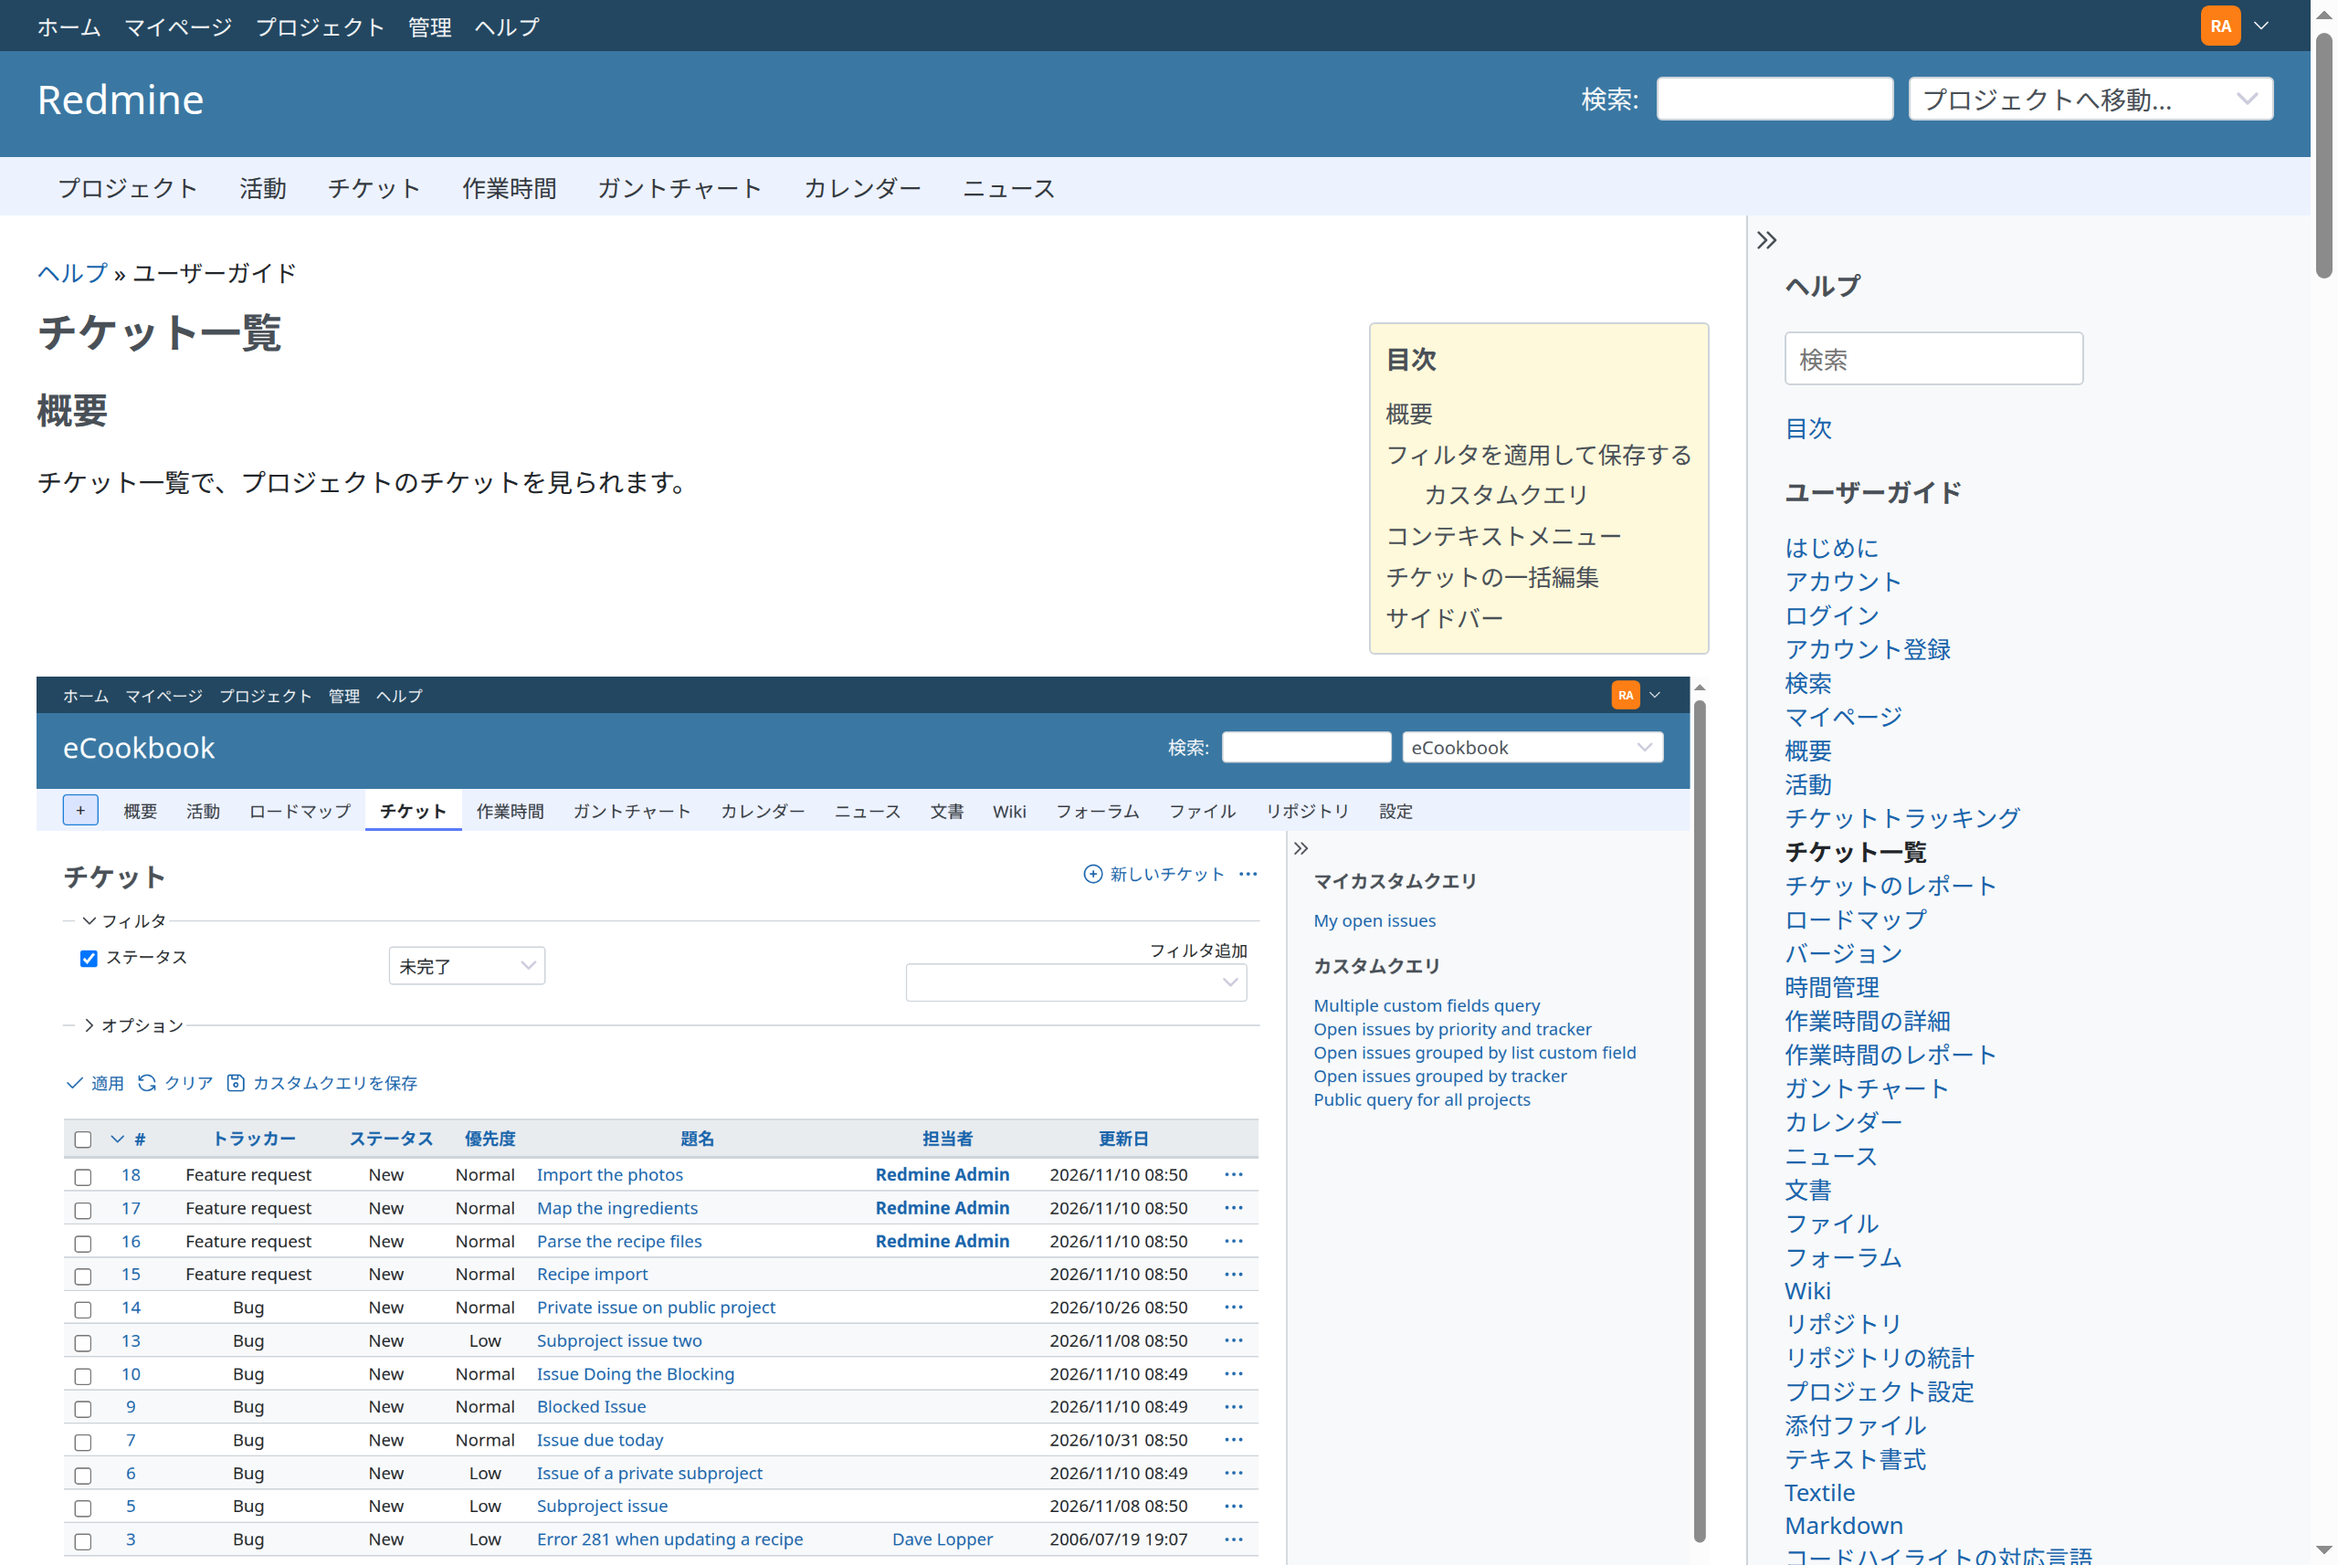
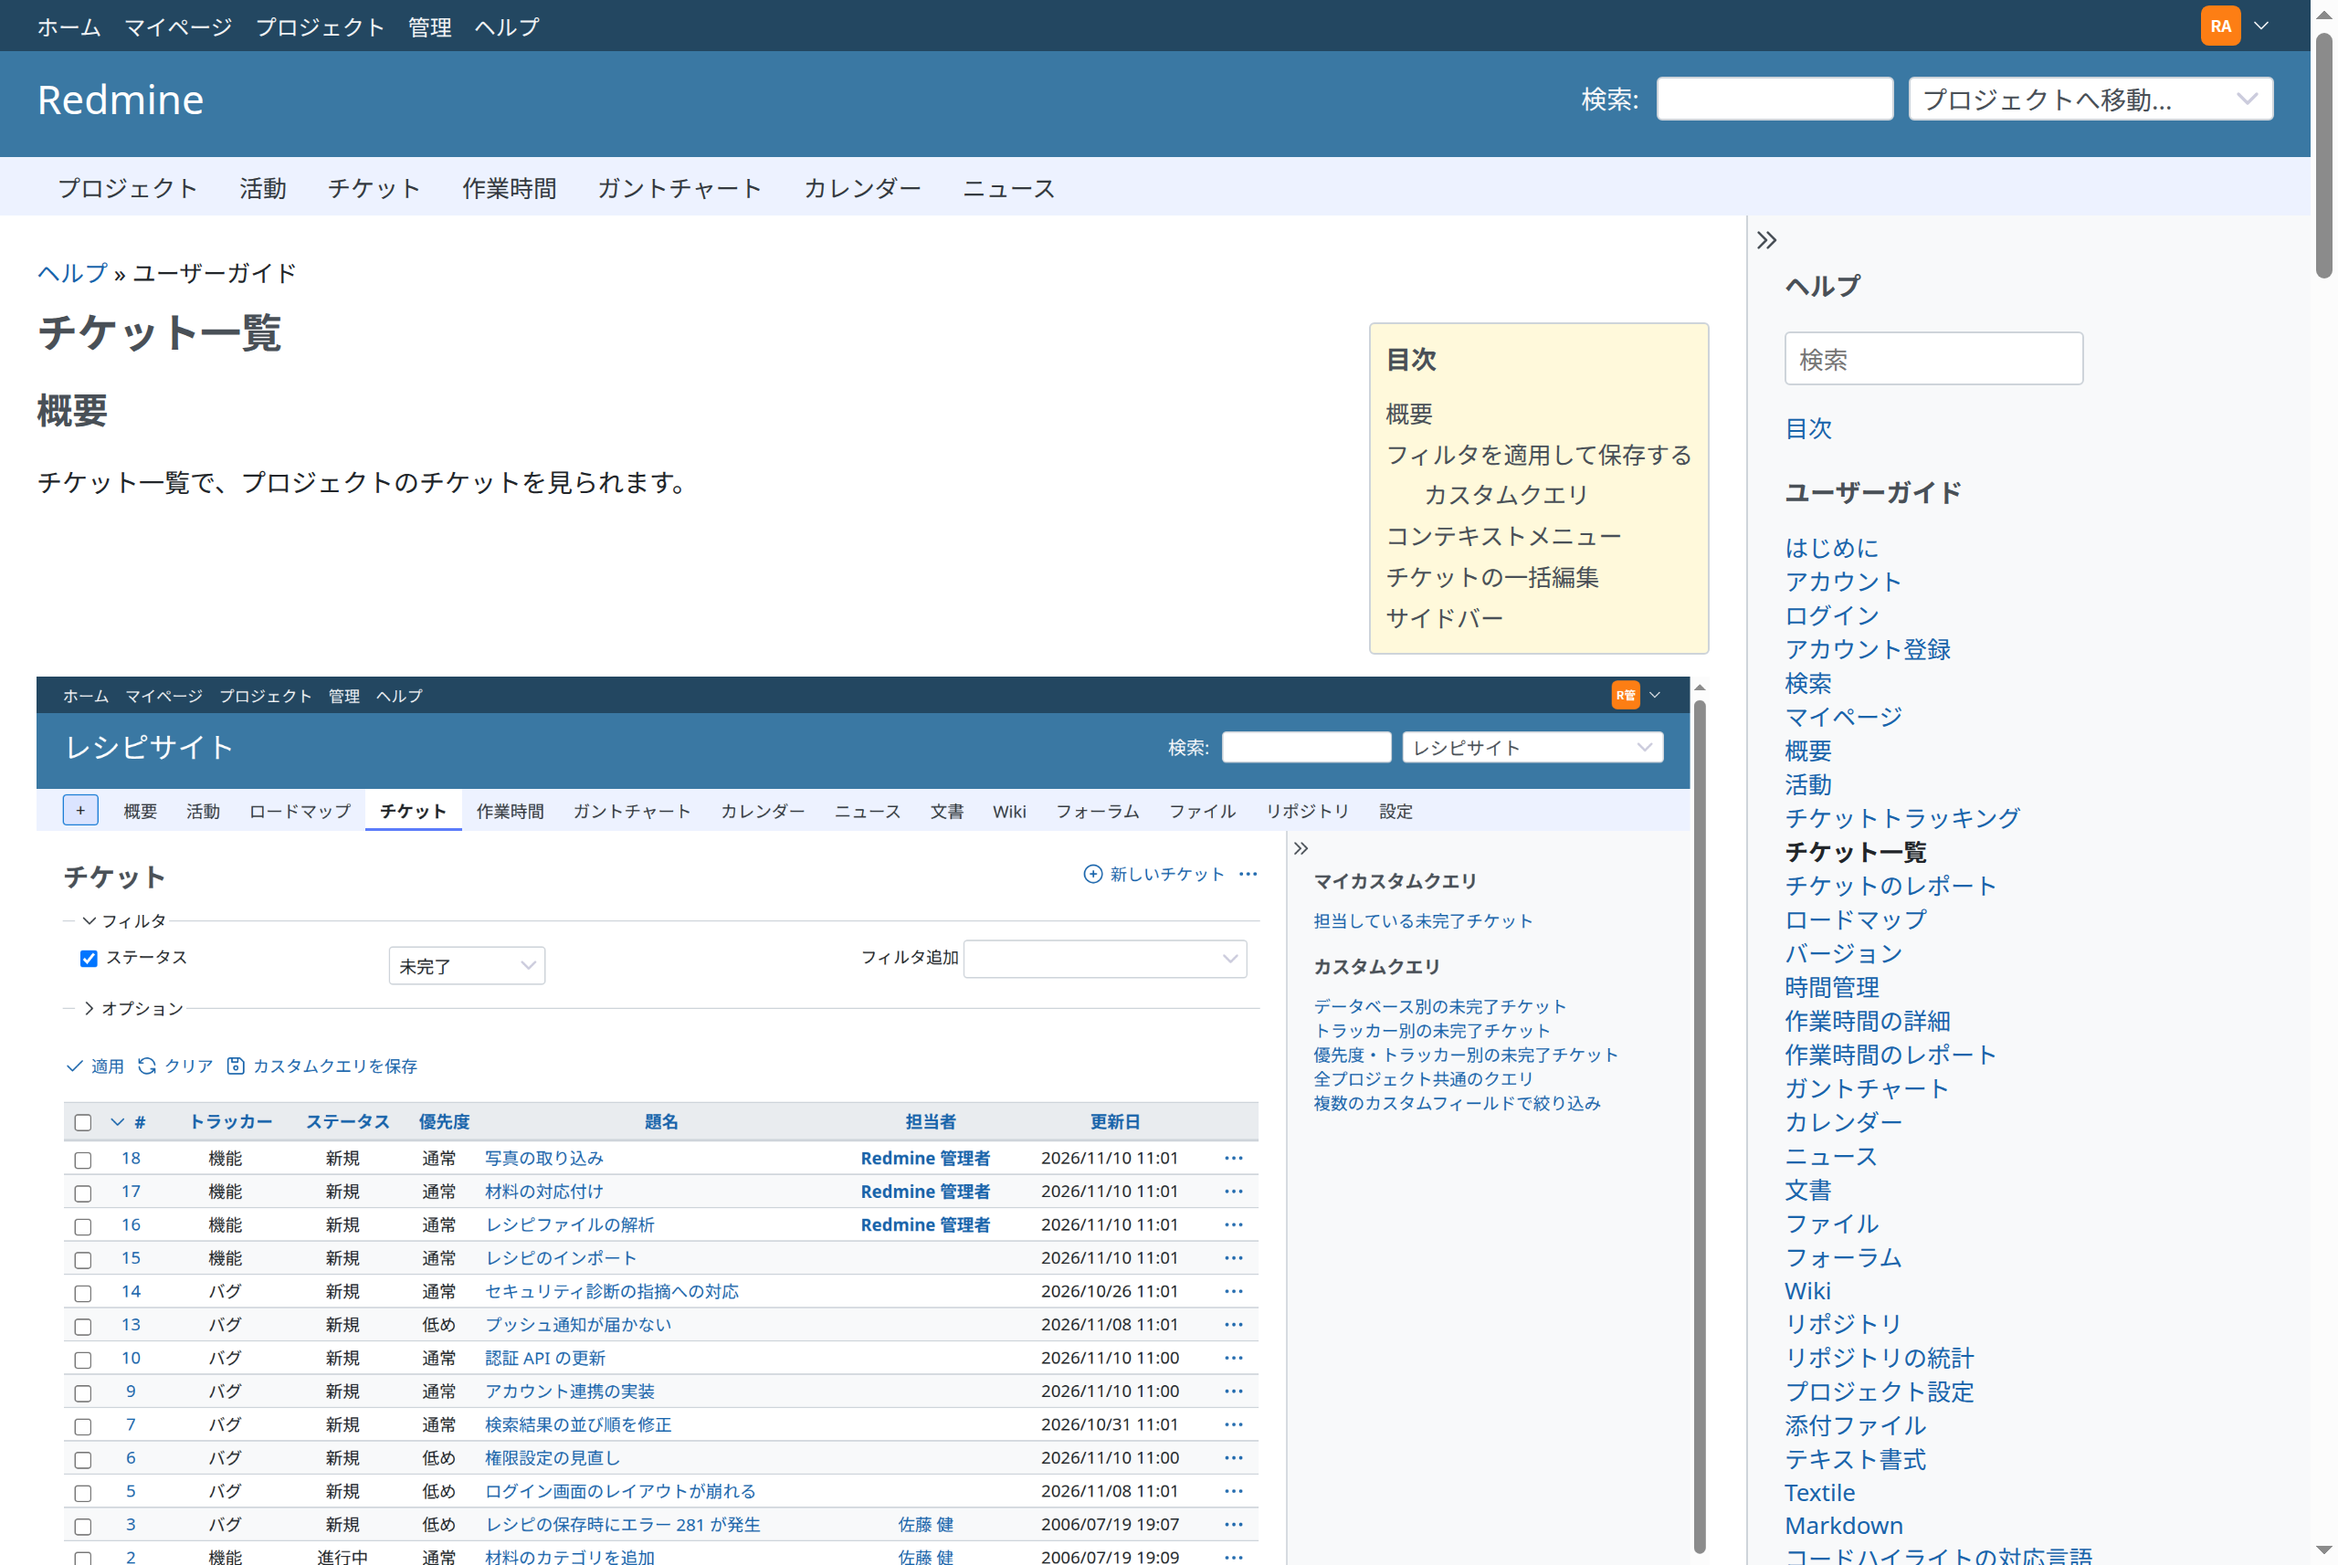
Take the screenshots of the side panel
bin/screenshots now also shoots the side panel next to the new issue form
and next to Administration › Settings › Authentication, in English and
Japanese, and takes the help page again.

diff --git a/test/screenshots/screens.rb b/test/screenshots/screens.rb
@@ -2,14 +2,26 @@
 
 require_relative 'screenshot_case'
 
-# The help screen of docs/README.md: the help for the issue list, opened by
-# the header's Help link, with the guide of redmine-guide
-# (REDMINE_HELP_GUIDE_PATH, set by bin/screenshots).
+# The screens of docs/README.md, with the guide of redmine-guide
+# (REDMINE_HELP_GUIDE_PATH, set by bin/screenshots): the side panel next to
+# the new issue form and next to a tab of Administration › Settings, and the
+# help page of the issue list.
 class RedmineHelpScreenshotsTest < ScreenshotCase
   def test_screens
     each_language do |language|
+      visit '/projects/ecookbook/issues/new'
+      open_panel
+      shoot_window 'help-panel', language
+      close_panel
+
+      visit '/settings?tab=authentication'
+      open_panel
+      shoot_window 'help-panel-settings', language
+      close_panel
+
       visit '/projects/ecookbook/issues'
-      # The link opens a new tab; the screenshot follows it in this one.
+      # The help page, as the Help link opens it without JavaScript and the
+      # panel's full view link opens it in a new window.
       visit find('#top-menu a.help')[:href]
       assert_selector 'div.wiki.wiki-page ul.toc'
       load_images
@@ -18,6 +30,26 @@ class RedmineHelpScreenshotsTest < ScreenshotCase
   end
 
   private
+
+  # Opens the side panel with the Help link and waits for its images. The
+  # panel's scroll position (the mapped section) is kept.
+  def open_panel
+    # The script has set the link up as the panel's button.
+    find('#top-menu a.help[aria-controls="help-panel"]').click
+    assert_selector '#help-panel .help-panel-content div.wiki-page', wait: 30
+    page.execute_script("document.querySelectorAll('#help-panel img').forEach(function (i) { i.loading = 'eager'; })")
+    Timeout.timeout(30) do
+      sleep 0.2 until page.evaluate_script(
+        "Array.from(document.querySelectorAll('#help-panel img')).every(function (img) { return img.complete; })"
+      )
+    end
+  end
+
+  # Closes the panel, so that the next screen opens without it.
+  def close_panel
+    find('#help-panel .help-panel-close').click
+    assert_no_selector '#help-panel'
+  end
 
   # Saves the browser window (Redmine's header, the start of the page and
   # the sidebar) as docs/<images>/<name>.png: a help page is too long for a
